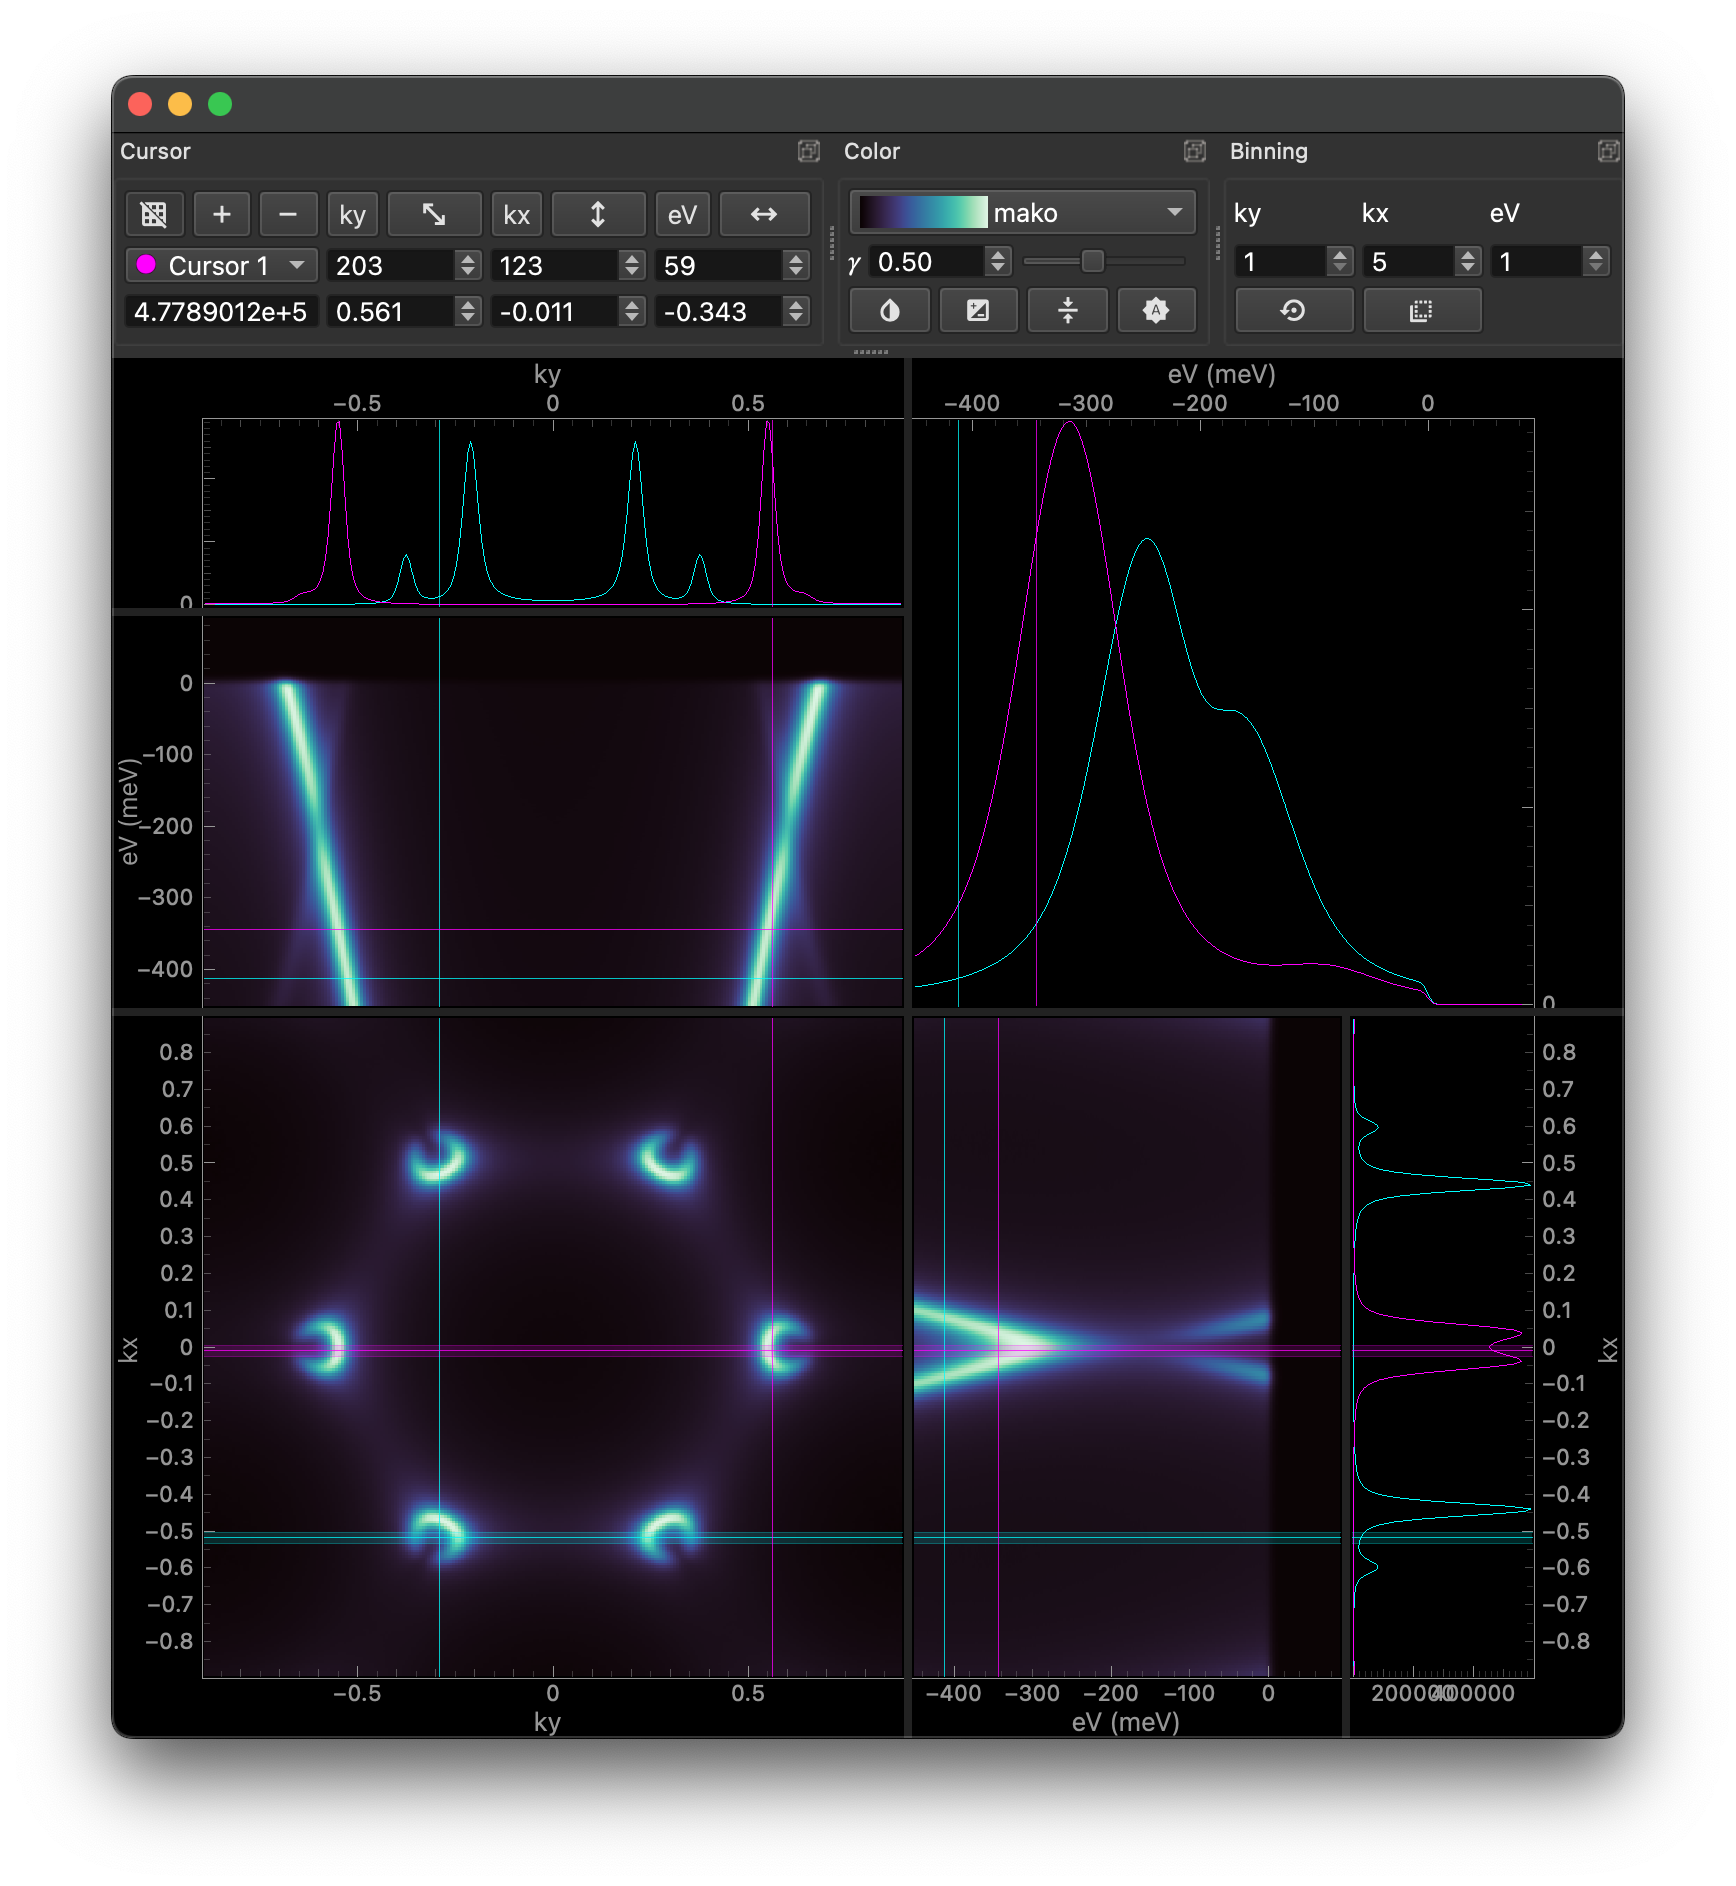
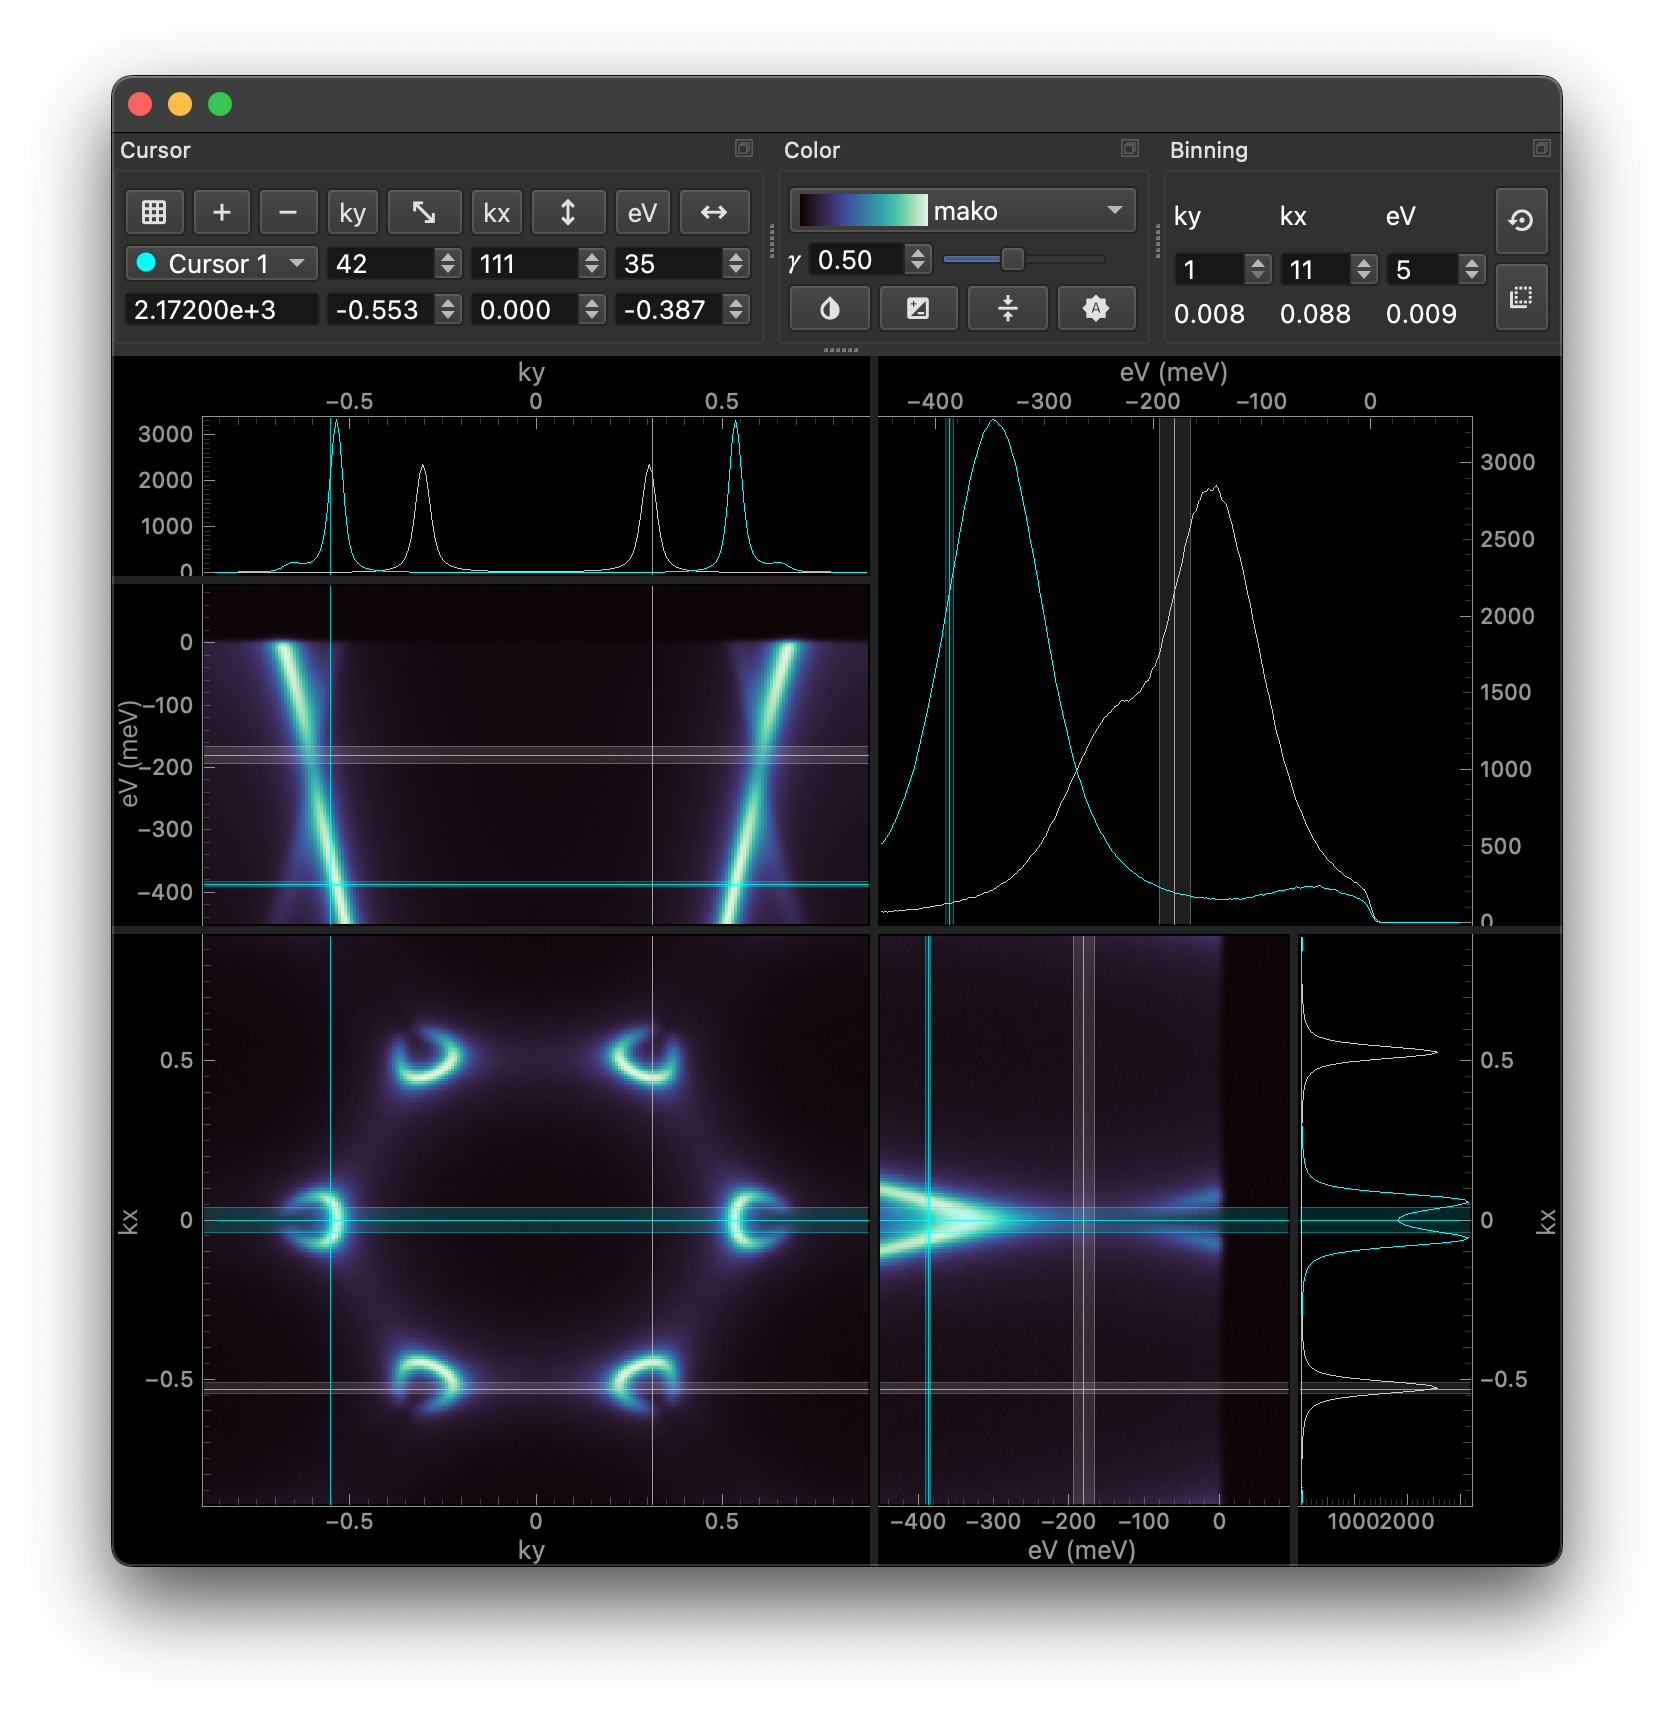
feat(interactive.imagetool): add bin amount label to binning controls

diff --git a/src/erlab/interactive/imagetool/controls.py b/src/erlab/interactive/imagetool/controls.py
@@ -676,15 +676,26 @@ class ItoolBinningControls(ItoolControlsBase):
         super().__init__(*args, **kwargs)
 
     def initialize_layout(self):
-        self.setLayout(QtWidgets.QGridLayout(self))
-
-        layout = cast(QtWidgets.QGridLayout, self.layout())
+        layout = QtWidgets.QHBoxLayout(self)
         layout.setContentsMargins(0, 0, 0, 0)
         layout.setSpacing(3)
+
+        self.gridlayout = QtWidgets.QGridLayout()
+        self.gridlayout.setContentsMargins(0, 0, 0, 0)
+        self.gridlayout.setSpacing(3)
+
+        self.buttonslayout = QtWidgets.QVBoxLayout()
+        self.buttonslayout.setContentsMargins(0, 0, 0, 0)
+        self.buttonslayout.setSpacing(3)
+
+        layout.addLayout(self.gridlayout)
+        layout.addLayout(self.buttonslayout)
+        self.setLayout(layout)
 
     def initialize_widgets(self):
         super().initialize_widgets()
         self.labels = tuple(QtWidgets.QLabel() for _ in range(self.data.ndim))
+        self.val_labels = tuple(QtWidgets.QLabel() for _ in range(self.data.ndim))
         self.spins = tuple(
             BetterSpinBox(
                 self,
@@ -707,15 +718,27 @@ class ItoolBinningControls(ItoolControlsBase):
         self.all_btn = IconButton(
             on="all_cursors",
             checkable=True,
-            toolTip="Apply for all cursors",
+            toolTip="When checked, apply bins to all cursors upon change",
         )
 
-        layout = cast(QtWidgets.QGridLayout, self.layout())
+        height = QtGui.QFontMetrics(self.labels[0].font()).height() + 3
+
         for i in range(self.data.ndim):
-            layout.addWidget(self.labels[i], 0, i, 1, 1)
-            layout.addWidget(self.spins[i], 1, i, 1, 1)
-        layout.addWidget(self.reset_btn, 2, 0, 1, 1)
-        layout.addWidget(self.all_btn, 2, 1, 1, 1)
+            self.gridlayout.addWidget(self.labels[i], 0, i, 1, 1)
+            self.gridlayout.addWidget(self.spins[i], 1, i, 1, 1)
+            self.gridlayout.addWidget(self.val_labels[i], 2, i, 1, 1)
+            self.val_labels[i].setMaximumHeight(height)
+            self.spins[i].setToolTip("Number of bins")
+            self.val_labels[i].setToolTip("Value corresponding to number of bins")
+
+        self.reset_btn.setSizePolicy(
+            QtWidgets.QSizePolicy.Policy.Minimum, QtWidgets.QSizePolicy.Policy.Expanding
+        )
+        self.all_btn.setSizePolicy(
+            QtWidgets.QSizePolicy.Policy.Minimum, QtWidgets.QSizePolicy.Policy.Expanding
+        )
+        self.buttonslayout.addWidget(self.reset_btn)
+        self.buttonslayout.addWidget(self.all_btn)
         # for spin in self.spins:
         # spin.setMinimumWidth(60)
 
@@ -742,15 +765,19 @@ class ItoolBinningControls(ItoolControlsBase):
     def update(self):
         super().update()
 
-        if len(self.labels) != self.data.ndim:
+        if len(self.val_labels) != self.data.ndim:
             clear_layout(self.layout())
             self.initialize_widgets()
 
+        bin_numbers = self.array_slicer.get_bins(self.current_cursor)
+        bin_values = self.array_slicer.get_bin_values(self.current_cursor)
+
         for i in range(self.data.ndim):
             self.spins[i].blockSignals(True)
-            self.labels[i].setText(str(self.data.dims[i]))
+            self.labels[i].setText(f"{self.data.dims[i]!s}")
             self.spins[i].setRange(1, self.data.shape[i] - 1)
-            self.spins[i].setValue(self.array_slicer.get_bins(self.current_cursor)[i])
+            self.spins[i].setValue(bin_numbers[i])
+            self.val_labels[i].setText(f"{bin_values[i]:.3g}")
             self.spins[i].blockSignals(False)
 
     def reset(self):

diff --git a/src/erlab/interactive/utils.py b/src/erlab/interactive/utils.py
@@ -250,6 +250,7 @@ class BetterSpinBox(QtWidgets.QAbstractSpinBox):
         significant: bool = False,
         scientific: bool = False,
         value: float = 0.0,
+        prefix: str = "",
         **kwargs,
     ):
         self._only_int = integer
@@ -264,6 +265,7 @@ class BetterSpinBox(QtWidgets.QAbstractSpinBox):
         self._min = -np.inf
         self._max = np.inf
         self._step = 1 if self._only_int else 0.01
+        self._prefix = prefix
 
         kwargs.setdefault("correctionMode", self.CorrectionMode.CorrectToPreviousValue)
         kwargs.setdefault("keyboardTracking", False)
@@ -292,17 +294,26 @@ class BetterSpinBox(QtWidgets.QAbstractSpinBox):
             self.setButtonSymbols(self.ButtonSymbols.NoButtons)
         self.setValue(self.value())
 
-    def setDecimals(self, decimals):
+    @QtCore.Slot(str)
+    def setPrefix(self, prefix: str):
+        self._prefix = prefix
+
+    def prefix(self) -> str:
+        return self._prefix
+
+    @QtCore.Slot(int)
+    def setDecimals(self, decimals: int):
         self._decimals = decimals
 
-    def decimals(self):
+    def decimals(self) -> int:
         return self._decimals
 
     def setRange(self, mn, mx):
         self.setMinimum(min(mn, mx))
         self.setMaximum(max(mn, mx))
 
-    def widthFromText(self, text):
+    @QtCore.Slot(str, result=int)
+    def widthFromText(self, text: str) -> int:
         return QtGui.QFontMetrics(self.font()).boundingRect(text).width()
 
     def widthFromValue(self, value):
@@ -344,13 +355,13 @@ class BetterSpinBox(QtWidgets.QAbstractSpinBox):
         else:
             return self._value
 
-    def text(self):
+    def text(self) -> str:
         return self.textFromValue(self.value())
 
-    def textFromValue(self, value):
+    def textFromValue(self, value) -> str:
         if (not self._only_int) or (not np.isfinite(value)):
             if self._is_scientific:
-                return np.format_float_scientific(
+                return self.prefix() + np.format_float_scientific(
                     value,
                     precision=self.decimals(),
                     unique=False,
@@ -358,7 +369,7 @@ class BetterSpinBox(QtWidgets.QAbstractSpinBox):
                     exp_digits=1,
                 )
             else:
-                return np.format_float_positional(
+                return self.prefix() + np.format_float_positional(
                     value,
                     precision=self.decimals(),
                     unique=False,
@@ -366,9 +377,10 @@ class BetterSpinBox(QtWidgets.QAbstractSpinBox):
                     trim="k",
                 )
         else:
-            return str(int(value))
+            return self.prefix() + str(int(value))
 
-    def valueFromText(self, text):
+    def valueFromText(self, text: str):
+        text = text[len(self.prefix()) :]
         if text == "":
             return np.nan
         if self._only_int:
@@ -489,7 +501,7 @@ class BetterSpinBox(QtWidgets.QAbstractSpinBox):
         spin.setDisabled(True)
         spin.setVisible(False)
         del spin
-        return w + 10
+        return w
 
     def _updateWidth(self):
         self.setMinimumWidth(

diff --git a/src/erlab/interactive/imagetool/slicer.py b/src/erlab/interactive/imagetool/slicer.py
@@ -397,6 +397,19 @@ class ArraySlicer(QtCore.QObject):
     def get_bins(self, cursor: int) -> list[int]:
         return self._bins[cursor]
 
+    @QtCore.Slot(int, result=list)
+    def get_bin_values(self, cursor: int) -> list[float | None]:
+        bins = self.get_bins(cursor)
+        if self._nonuniform_axes:
+            return [
+                None if i in self._nonuniform_axes else b * np.abs(inc)
+                for i, (b, inc) in enumerate(zip(bins, self.incs_uniform, strict=True))
+            ]
+        else:
+            return [
+                b * np.abs(inc) for b, inc in zip(bins, self.incs_uniform, strict=True)
+            ]
+
     def set_bins(
         self, cursor: int, value: list[int | None], update: bool = True
     ) -> None:
